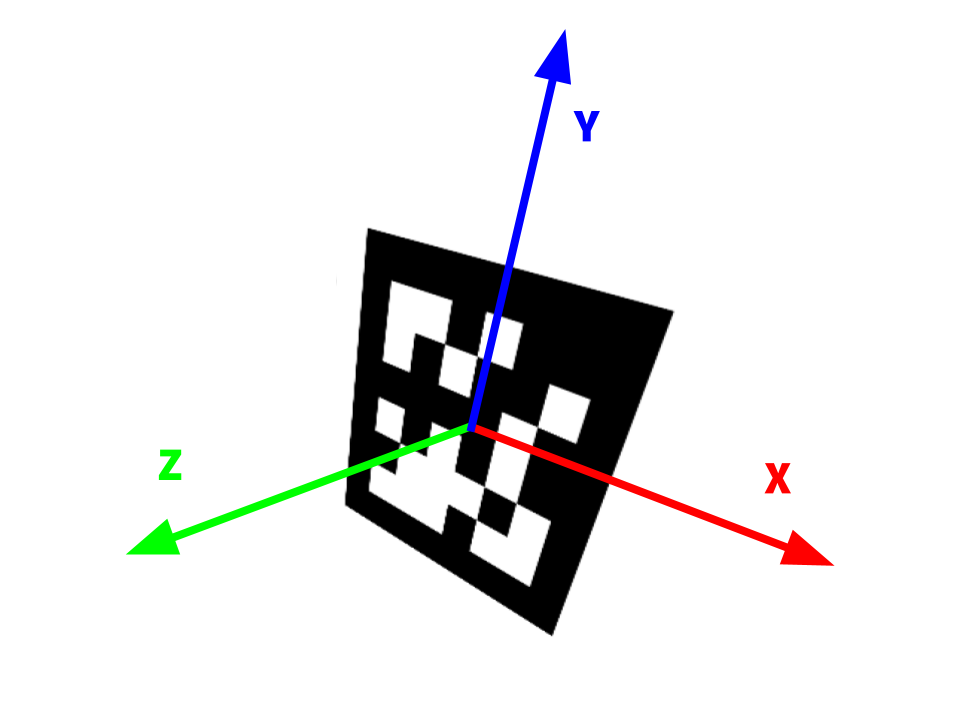
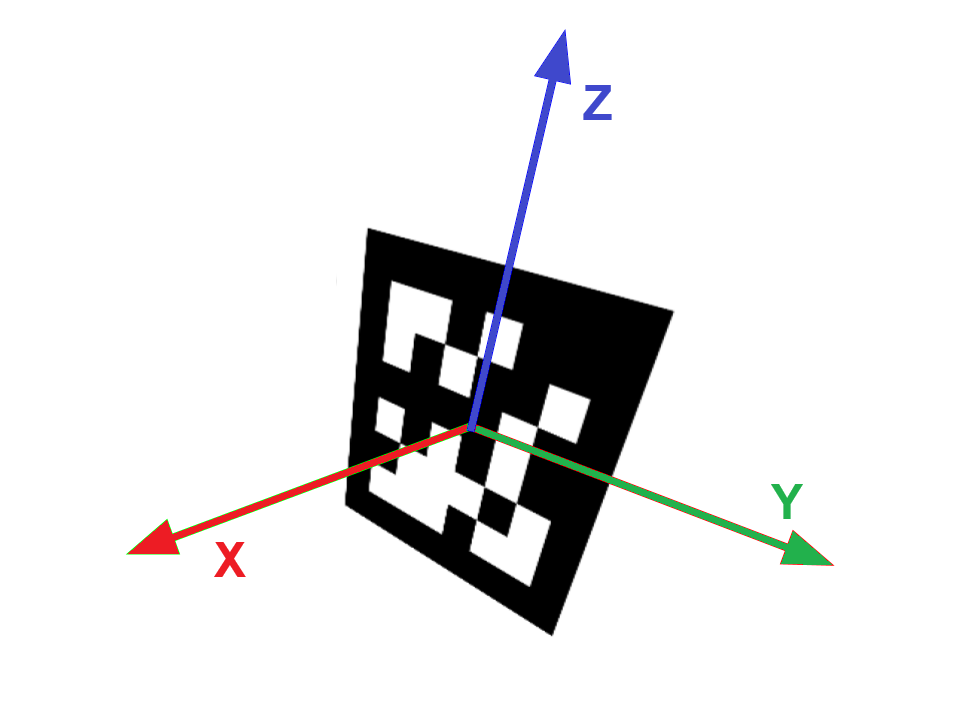
Fix apriltag coordinate system notes (#348)
* Fix apriltag coordinate system notes

* Fix apriltag coordinate system notes

---------

diff --git a/source/docs/apriltag-pipelines/coordinate-systems.rst b/source/docs/apriltag-pipelines/coordinate-systems.rst
@@ -11,24 +11,39 @@ You define the camera to robot transform in the robot coordinate frame.
 Camera Coordinate Frame
 -----------------------
 
-The camera coordinate system is defined as follows, relative to the camera sensor itself, and when looking in the same direction as the sensor points:
+OpenCV by default uses x-left/y-down/z-out for camera transforms. PhotonVision applies a base rotation to this transformation to make robot to tag transforms more in line with the WPILib coordinate system. The x, y, and z axes are also shown in red, green, and blue in the 3D mini-map and targeting overlay in the UI.
 
-* The origin is the center.
-* The x-axis points to the left
-* The y-axis points up.
-* The z-axis points out toward the subject.
+* The origin is the focal point of the camera lens
+* The x-axis points out of the camera
+* The y-axis points to the left
+* The z-axis points upwards
+
+
+.. image:: images/camera-coord.png
+   :scale: 45 %
+   :align: center
+
+|
+
+.. image:: images/multiple-tags.png
+   :scale: 45 %
+   :align: center
+
+|
 
 AprilTag Coordinate Frame
 -------------------------
 
-The AprilTag coordinate system is defined as follows, relative to the center of the AprilTag itself, and when viewing the tag as a robot would:
+The AprilTag coordinate system is defined as follows, relative to the center of the AprilTag itself, and when viewing the tag as a robot would. Again, PhotonVision changes this coordinate system to be more in line with WPILib. This means that a robot facing a tag head-on would see a robot-to-tag transform with a translation only in x, and a rotation of 180 degrees about z. The tag coordinate system is also shown with x/y/z in red/green/blue in the UI target overlay and mini-map.
 
-* The origin is the center.
-* The x-axis points to your right
-* The y-axis points upwards.
-* The z-axis is normal to the plane the tag is printed on, pointing outward from the visible side of the tag.
+* The origin is the center of the tag
+* The x-axis is normal to the plane the tag is printed on, pointing outward from the visible side of the tag.
+* The y-axis points to the right
+* The z-axis points upwards
+
 
 .. image:: images/apriltag-coords.png
+   :scale: 45 %
    :align: center
-   :scale: 50%
-   :alt: AprilTag Coordinate System
+
+|
